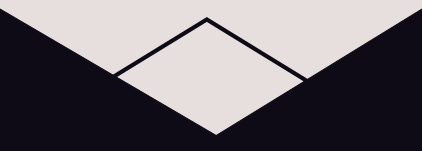
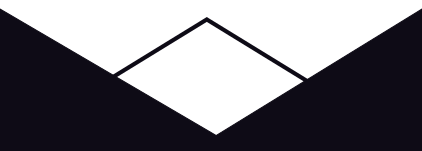
Mudança de cores.

diff --git a/css/style.css b/css/style.css
@@ -49,7 +49,7 @@ ul, ol {
   display: none;
 }
 .botao__topo a {
-  color: #E7DFDD;
+  color: #FFF;
   display: block;
   font-size: 1.6rem;
   padding: 0.8rem 1rem;
@@ -100,7 +100,7 @@ header .container__header nav .open {
 header .container__header nav .open .open-line {
   width: 60%;
   height: 4px;
-  background: #E7DFDD;
+  background: #FFF;
 }
 header .container__header nav .menu__principal {
   display: flex;
@@ -112,7 +112,7 @@ header .container__header nav .menu__principal {
   align-self: center;
 }
 header .container__header nav .menu__principal .menu__link {
-  color: #E7DFDD;
+  color: #FFF;
   display: block;
   text-transform: uppercase;
   border-bottom: 3px solid #4717F6;
@@ -140,7 +140,7 @@ header .container__header nav .close {
 header .container__header nav .close .close-line {
   width: 65%;
   height: 4px;
-  background-color: #E7DFDD;
+  background-color: #FFF;
 }
 header .banner {
   background: url("../img/bg1.png") top center/13.5rem repeat-x;
@@ -247,7 +247,7 @@ header .banner .banner__texto {
 /* Introdução */
 .introducao {
   padding: 6rem 0;
-  background-color: #E7DFDD;
+  background-color: #FFF;
 }
 .introducao .titulo__intro {
   text-align: center;
@@ -306,7 +306,7 @@ header .banner .banner__texto {
   padding: 6rem 0 6rem 3rem;
 }
 .sobre .titulo__sobre {
-  color: #E7DFDD;
+  color: #FFF;
   grid-area: titulo;
 }
 .sobre .titulo__sobre:before {
@@ -315,7 +315,7 @@ header .banner .banner__texto {
   font-size: 3.5rem;
 }
 .sobre .texto__sobre {
-  color: #E7DFDD;
+  color: #FFF;
   text-align: justify;
   grid-area: texto;
   align-self: center;
@@ -323,7 +323,7 @@ header .banner .banner__texto {
 .sobre .texto__sobre .link__sobre {
   border: 2px solid #4717F6;
   display: inline-block;
-  color: #E7DFDD;
+  color: #FFF;
   background: #0E0B16;
   padding: 0 3px;
   transition: all 0.3s ease-in-out;
@@ -365,7 +365,7 @@ header .banner .banner__texto {
 }
 /* Formação */
 .formacao {
-  background: #E7DFDD;
+  background: #FFF;
   padding: 5rem 3rem 8rem;
 }
 .formacao .titulo__formacao {
@@ -393,8 +393,12 @@ header .banner .banner__texto {
   width: 30%;
   padding: 2rem;
   text-align: center;
-  border: 2px solid #DE354C;
-  border-radius: 12px;
+  border: 2px solid #000;
+  box-shadow: 0 0 0 0 #000;
+  transition: box-shadow 0.3s ease-in-out;
+}
+.formacao .container__cards .card:hover {
+  box-shadow: -8px 8px 0px 1px #000;
 }
 .formacao .container__cards .card .card__titulo {
   font: 1.5rem "Inter Semibold";
@@ -414,7 +418,7 @@ header .banner .banner__texto {
   transition: all 0.3s ease-in-out;
 }
 .formacao .container__cards .card .card__texto .link__tcc:hover {
-  color: #E7DFDD;
+  color: #FFF;
   background-color: #0E0B16;
   border-color: #0E0B16;
 }
@@ -449,7 +453,7 @@ header .banner .banner__texto {
   padding: 12rem 3rem 0;
 }
 .contato .titulo__contato {
-  color: #E7DFDD;
+  color: #FFF;
   text-align: center;
   margin-bottom: 3rem;
 }
@@ -462,7 +466,7 @@ header .banner .banner__texto {
   display: grid;
   grid-template-columns: 30% auto 30%;
   grid-template-rows: auto auto;
-  color: #E7DFDD;
+  color: #FFF;
 }
 .contato .container__contato .titulo__info {
   grid-area: 1/1/2/2;
@@ -493,7 +497,7 @@ header .banner .banner__texto {
   margin-bottom: 1.5rem;
 }
 .contato .container__contato .info__pessoal .lista__pessoal li .pessoal__link {
-  color: #E7DFDD;
+  color: #FFF;
   background-color: #0E0B16;
   font-size: 1.1rem;
   border: 2px solid #4717F6;
@@ -519,14 +523,14 @@ header .banner .banner__texto {
   outline: none;
   transition: all 0.3s ease-in-out;
   color: #0E0B16;
-  background-color: #E7DFDD;
+  background-color: #FFF;
   -webkit-text-fill-color: #0E0B16;
 }
 .contato .container__contato form input[type=text]:focus, .contato .container__contato form input[type=email]:focus, .contato .container__contato form textarea:focus {
   background-color: #0E0B16;
-  color: #E7DFDD;
+  color: #FFF;
   border-color: #4717F6;
-  -webkit-text-fill-color: #E7DFDD;
+  -webkit-text-fill-color: #FFF;
 }
 .contato .container__contato form input[type=text]::-moz-placeholder, .contato .container__contato form input[type=email]::-moz-placeholder, .contato .container__contato form textarea::-moz-placeholder {
   opacity: 1;
@@ -550,14 +554,14 @@ header .banner .banner__texto {
   width: 9rem;
   padding: 1.1rem 0;
   background-color: #4717F6;
-  color: #E7DFDD;
+  color: #FFF;
   border: 4px solid #0E0B16;
   cursor: pointer;
   font-weight: 500;
   transition: all 0.3s ease-in-out;
 }
 .contato .container__contato form .centraliza input[type=reset]:hover, .contato .container__contato form .centraliza input[type=submit]:hover {
-  color: #E7DFDD;
+  color: #FFF;
   border-color: #FFC719;
   background-color: #0E0B16;
 }
@@ -586,7 +590,7 @@ header .banner .banner__texto {
   text-align: right;
 }
 .contato .container__contato .lattes__info .lattes__link {
-  color: #E7DFDD;
+  color: #FFF;
   background-color: #0E0B16;
   font-size: 1.1rem;
   display: inline-block;
@@ -644,7 +648,7 @@ footer {
 }
 footer .titulo__footer {
   font-size: 2rem;
-  color: #E7DFDD;
+  color: #FFF;
   text-align: center;
 }
 footer .titulo__footer:before {
@@ -658,7 +662,7 @@ footer .titulo__footer:after {
   font-size: 3.5rem;
 }
 footer .rodape__texto {
-  color: #E7DFDD;
+  color: #FFF;
   text-align: center;
   margin: 4.5rem 0;
 }
@@ -671,21 +675,21 @@ footer .social__list img {
   max-width: 3.4rem;
 }
 footer .copyright {
-  color: #E7DFDD;
+  color: #FFF;
   font-size: 1.1rem;
   text-align: center;
   margin: 4.5rem 0 0;
   display: block;
 }
 footer .copyright .email__contact {
-  color: #E7DFDD;
+  color: #FFF;
   border-bottom: 2px solid #4717F6;
   padding-bottom: 0.2rem;
   transition: all 0.3s ease-in-out;
 }
 footer .copyright .email__contact:hover {
   background-color: #4717F6;
-  color: #E7DFDD;
+  color: #FFF;
   border-color: #0E0B16;
 }
 

diff --git a/css/components/_formacao.scss b/css/components/_formacao.scss
@@ -27,8 +27,13 @@
             width: 30%;
             padding: 2rem;
             text-align: center;
-            border: 2px solid $cor-terciaria;
-            @include raio(12px);
+            border: 2px solid #000;
+            box-shadow: 0 0 0 0 #000;
+            transition: box-shadow .3s ease-in-out;
+            &:hover {
+                box-shadow: -8px 8px 0px 1px #000;
+            }
+            //@include raio(12px);
             .card__titulo {
                 font: 1.5rem $fonte-titulo ;
                 color: $cor-primaria;

diff --git a/css/abstract/_variaveis.scss b/css/abstract/_variaveis.scss
@@ -13,5 +13,5 @@ $cinza: #ccc;
 $cor-primaria: #0E0B16;
 $cor-secundaria: #4717F6;
 $cor-terciaria: #DE354C;
-$cor-quaternaria: #E7DFDD;
+$cor-quaternaria: #FFF;
 $cor-quinternaria: #FFC719;
